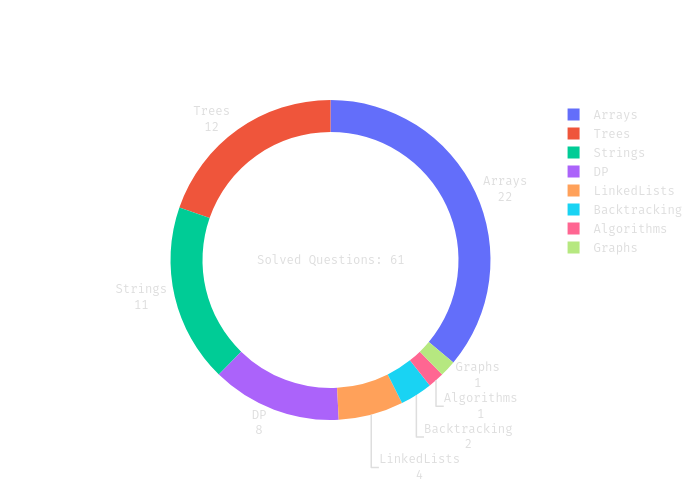
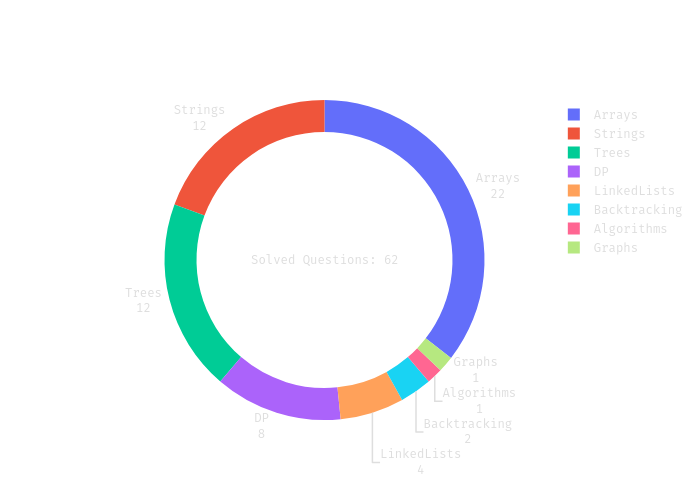
Merging strings

diff --git a/Strings/mergeStringsAlt.py b/Strings/mergeStringsAlt.py
@@ -1,0 +1,17 @@
+def mergeAlternatively(word1: str, word2: str) -> str:
+    l = r = 0
+    res = ""
+    while l < len(word1) and r < len(word2):
+        res += word1[l] + word2[r]
+        l += 1
+        r += 1
+
+    if l < len(word1):
+        res += word1[l:]
+    if r < len(word2):
+        res += word2[r:]
+    return res
+
+
+print(mergeAlternatively("abc", "pqr"))
+print(mergeAlternatively("ab", "pqrs"))
